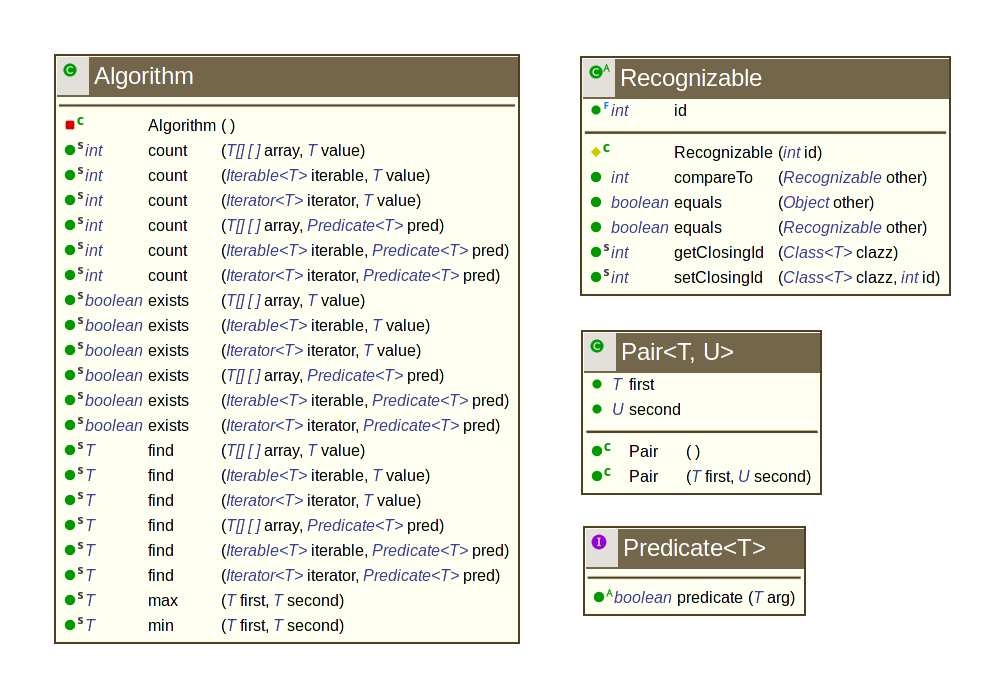
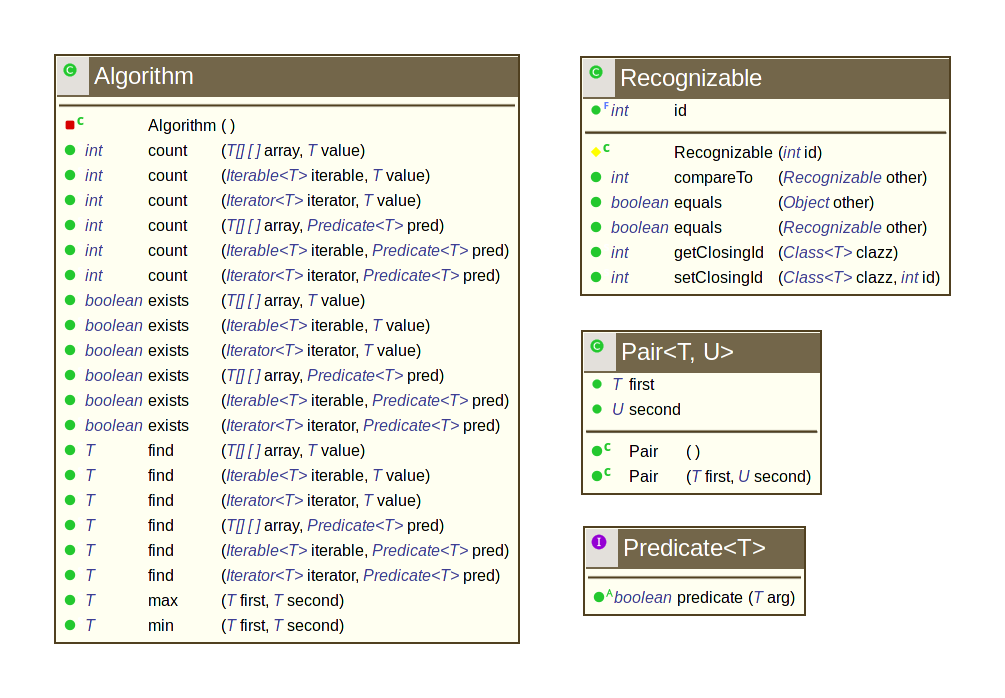
modul 5 cs remove unncessary abstract

diff --git a/goldenSample/Recognizable.java b/goldenSample/Recognizable.java
@@ -1,6 +1,6 @@
 package goldenSample;
 
-public abstract class Recognizable implements Comparable<Recognizable>
+public class Recognizable implements Comparable<Recognizable>
 {
     public final int id;
 
